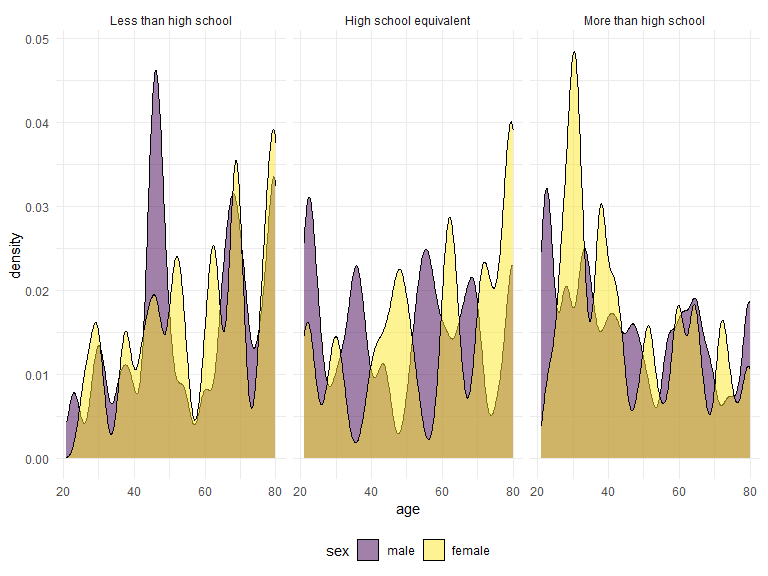
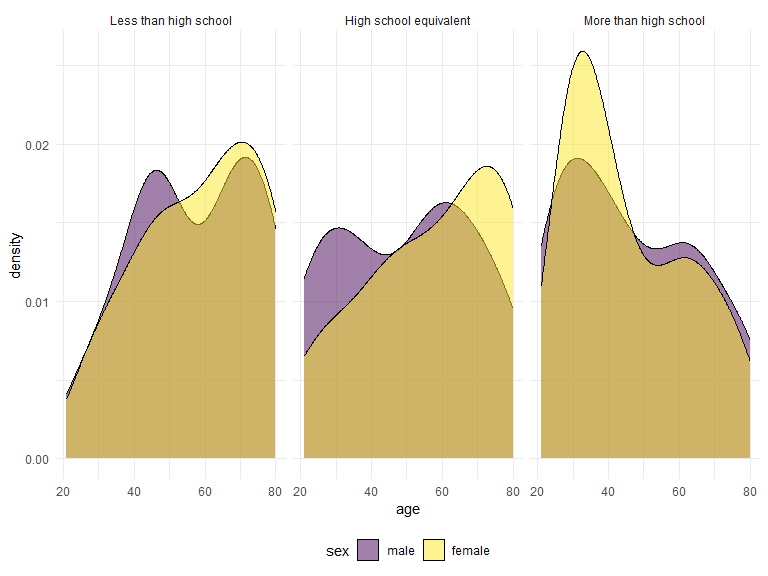
part of problem 3

diff --git a/p8105_hw3_yb2584.md b/p8105_hw3_yb2584.md
@@ -143,8 +143,7 @@ brfss_smart2010=
   mutate(response=factor(response,levels = c("Poor", "Fair", "Good", "Very good", "Excellent"),ordered = TRUE))
 ```
 
-- In 2002, which states were observed at 7 or more locations? What about
-  in 2010?
+### In 2002, which states were observed at 7 or more locations? What about in 2010?
 
 ``` r
 more_7_loc_2002=
@@ -202,10 +201,7 @@ more_7_loc_2010
 Form this result, CA, CO, FL, MA, MD, NC, NE, NJ, NY, OH, PA, SC, TX, WA
 were observed at 7 or more locations in 2010.
 
-- Construct a dataset that is limited to Excellent responses, and
-  contains, year, state, and a variable that averages the data_value
-  across locations within a state. Make a “spaghetti” plot of this
-  average value over time within a state.
+### Construct a dataset that is limited to Excellent responses, and contains, year, state, and a variable that averages the data_value across locations within a state. Make a “spaghetti” plot of this average value over time within a state.
 
 ``` r
 ave_data_value_summ=
@@ -251,9 +247,7 @@ ave_data_value_summ|>
 
 <img src="p8105_hw3_yb2584_files/figure-gfm/unnamed-chunk-10-1.png" width="90%" />
 
-- Make a two-panel plot showing, for the years 2006, and 2010,
-  distribution of data_value for responses (“Poor” to “Excellent”) among
-  locations in NY State.
+### Make a two-panel plot showing, for the years 2006, and 2010, distribution of data_value for responses (“Poor” to “Excellent”) among locations in NY State.
 
 ``` r
 plot_2006=
@@ -301,19 +295,16 @@ mims=
                                  '1'="Less than high school",
                                  '2'="High school equivalent",
                                  '3'="More than high school"))|>
+  drop_na(min1:min1440)|>
   pivot_longer(
     min1:min1440,
     names_to = "min",
     values_to = "mims"
   )|>
-  filter(age>=21)|>
-  drop_na(mims)
+  filter(age>=21)
 ```
 
-- Produce a reader-friendly table for the number of men and women in
-  each education category, and create a visualization of the age
-  distributions for men and women in each education category. Comment on
-  these items.
+### Produce a reader-friendly table for the number of men and women in each education category, and create a visualization of the age distributions for men and women in each education category. Comment on these items.
 
 ``` r
 mims|>
@@ -337,6 +328,7 @@ mims|>
 
 ``` r
 mims|>
+  distinct(SEQN,.keep_all = TRUE)|>
   ggplot(aes(x=age,fill=sex))+
   geom_density(alpha = .5) + 
   facet_grid(~education) + 
@@ -352,3 +344,43 @@ school level and High school equivalent level is higher than women.
 However, the average age of women in More than high school level is
 smaller than man. For men and women, there are more young people among
 highly educated people.
+
+### Using your tidied dataset, aggregate across minutes to create a total activity variable for each participant.
+
+``` r
+Traditional_analyses=
+  mims|>
+  group_by(SEQN,sex,age,education)|>
+  summarize(ave_mims=mean(mims))
+Traditional_analyses
+```
+
+    ## # A tibble: 231 x 5
+    ## # Groups:   SEQN, sex, age [231]
+    ##     SEQN sex      age education              ave_mims
+    ##    <dbl> <fct>  <dbl> <fct>                     <dbl>
+    ##  1 62161 male      22 High school equivalent     9.16
+    ##  2 62164 female    44 More than high school      9.31
+    ##  3 62169 male      21 High school equivalent     6.94
+    ##  4 62174 male      80 More than high school      5.96
+    ##  5 62177 male      51 High school equivalent     8.28
+    ##  6 62178 male      80 High school equivalent     5.20
+    ##  7 62180 male      35 More than high school      9.86
+    ##  8 62184 male      26 High school equivalent     9.44
+    ##  9 62189 female    30 More than high school     12.9 
+    ## 10 62191 male      70 High school equivalent     5.07
+    ## # i 221 more rows
+
+### Plot these total activities (y-axis) against age (x-axis); your plot should compare men to women and have separate panels for each education level. Include a trend line or a smooth to illustrate differences. Comment on your plot.
+
+``` r
+Traditional_analyses|>
+  ggplot(aes(x=age,y=ave_mims,color=sex))+
+  geom_point()+
+  geom_smooth(se = FALSE)+
+  facet_grid(. ~ education)
+```
+
+    ## `geom_smooth()` using method = 'loess' and formula = 'y ~ x'
+
+<img src="p8105_hw3_yb2584_files/figure-gfm/unnamed-chunk-17-1.png" width="90%" />
